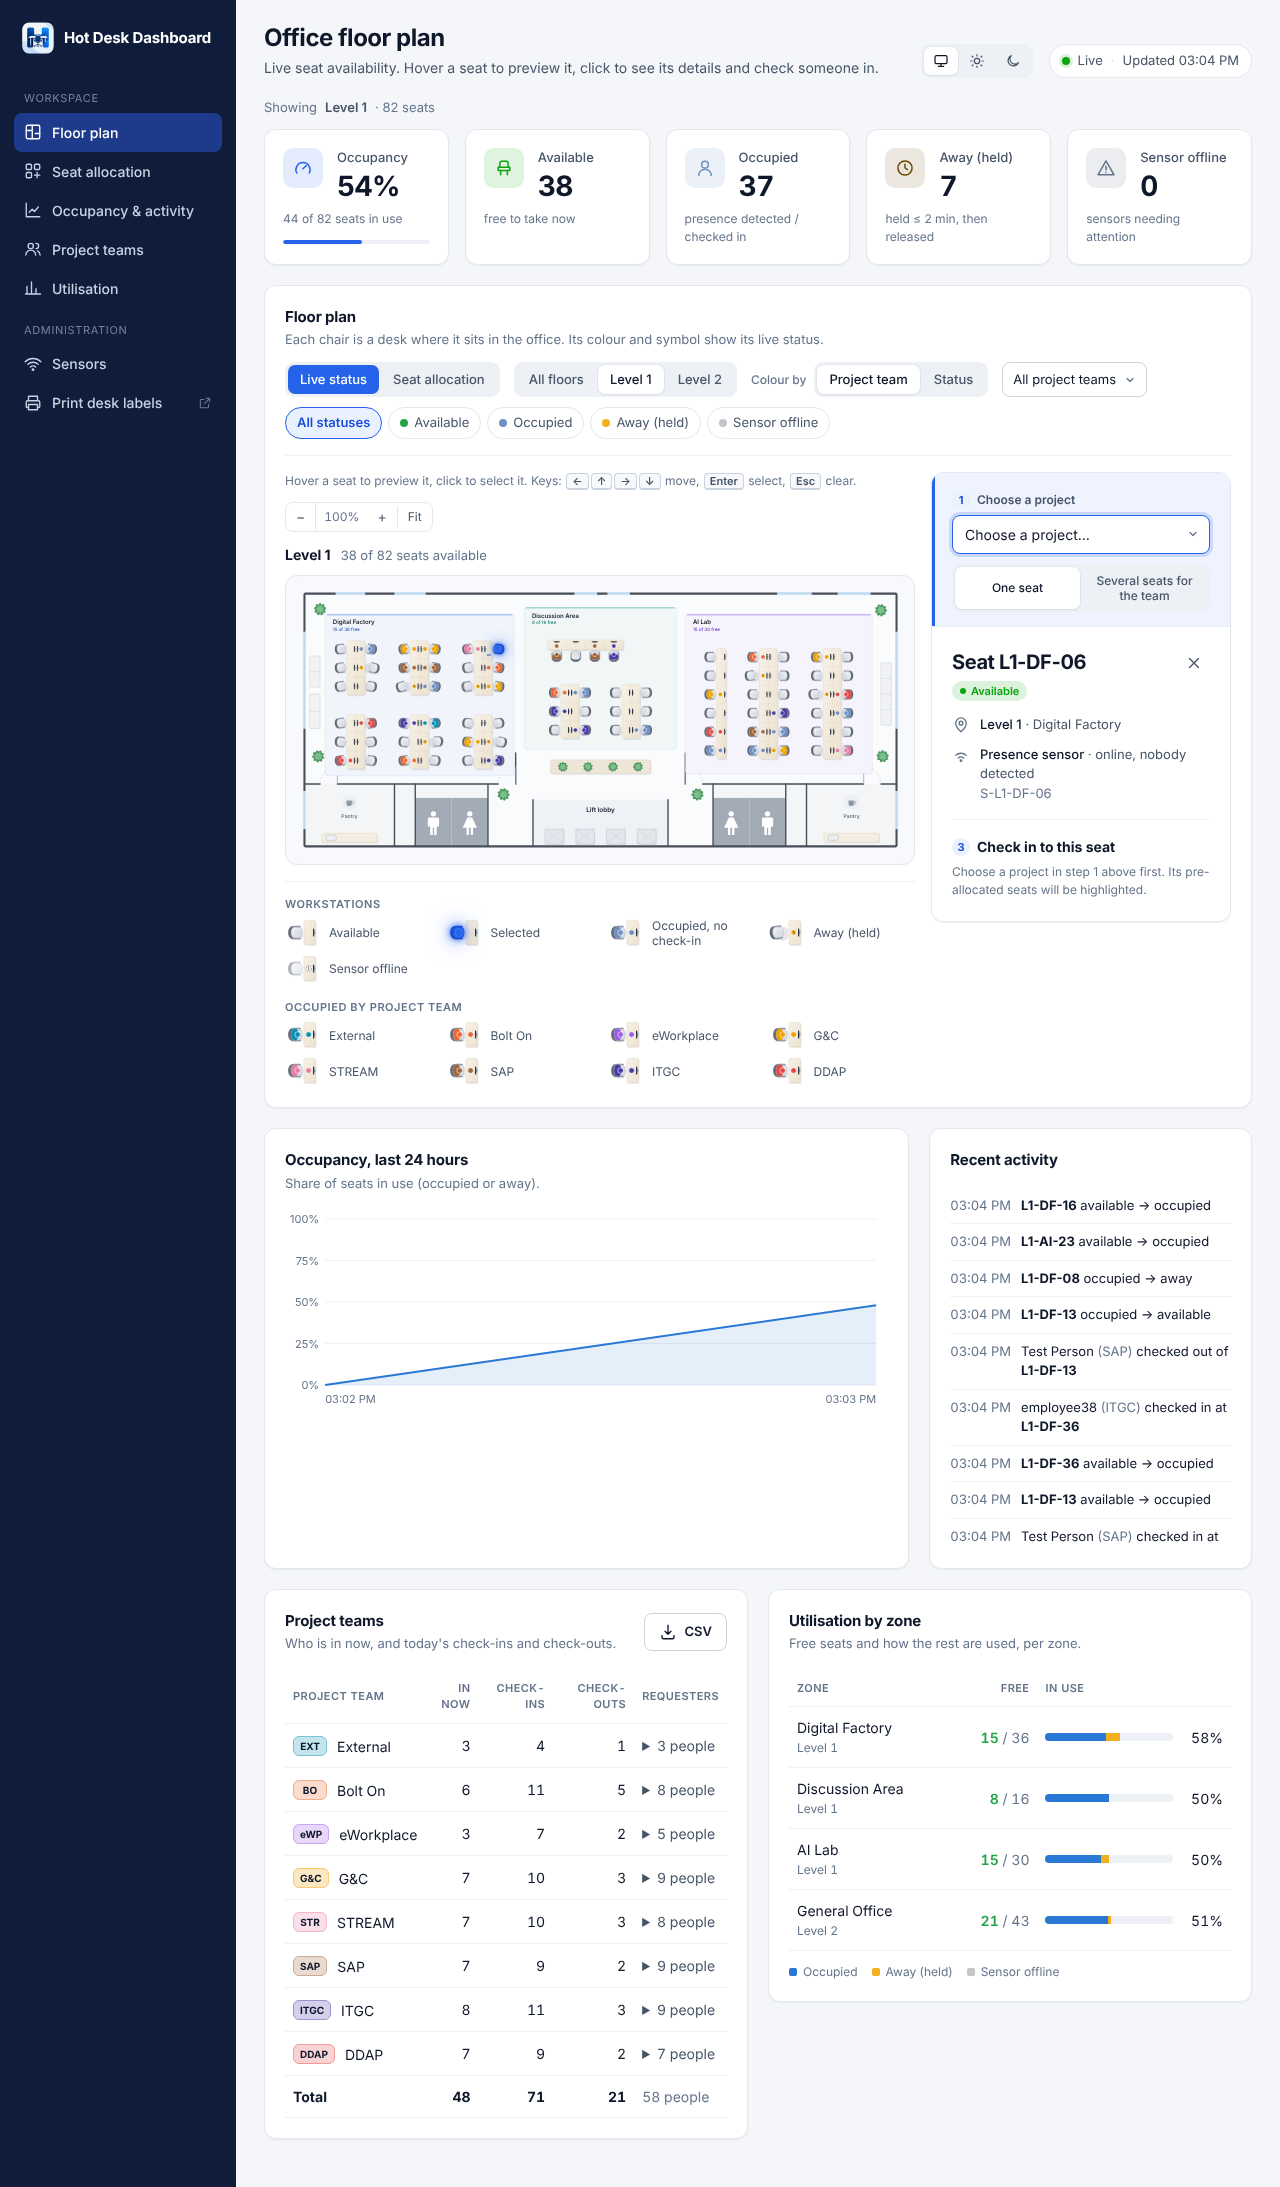
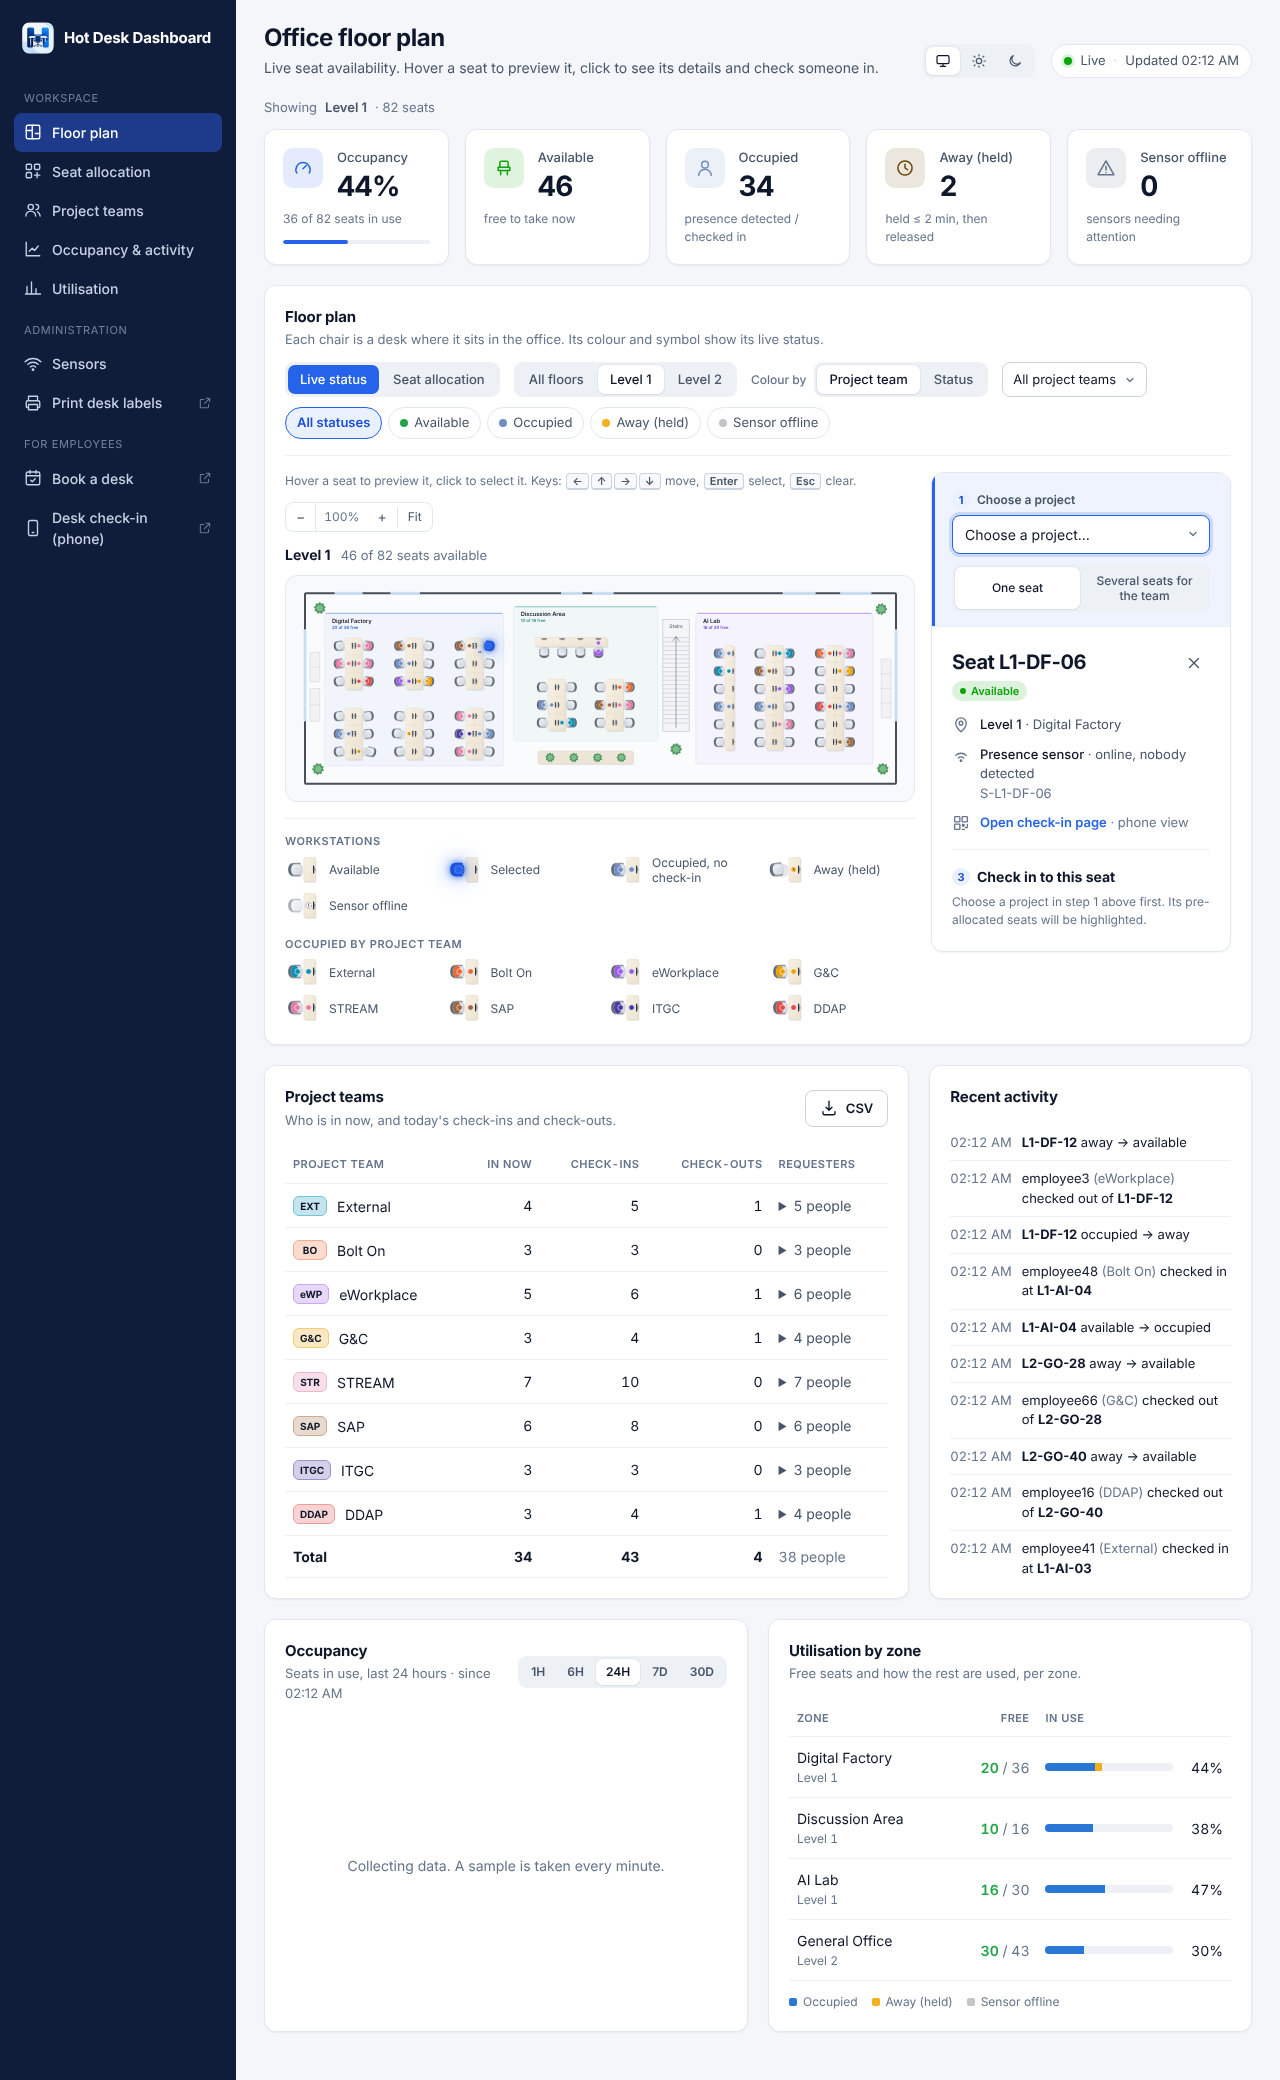
Floor plans: Level 1 without facilities plus a staircase; Level 2 drawn
Level 1: the pantries, toilets, lift lobby and their rooms, walls and
doors are removed and the empty strip below the zones is trimmed (height
73 to 58). A narrow staircase sits between the Discussion Area and the
AI Lab, which moves 0.9 m right (width 171 to 180).

Level 2 gets its own plan instead of the generic shell: a wider 122 x 66
outline with no door, men's and women's toilets in the General Office's
empty corner (the zone becomes L-shaped around them) and a staircase on
the right. Seats, seat ids and counts are unchanged on both floors.

The drawing gains a stairs room kind (treads, arrow, label) and an
optional zone cut-out for L-shaped zones.

Claude-Session: https://claude.ai/code/session_01LGhQKA2iw4MbRhcQm9t68K

diff --git a/public/floorplan.js b/public/floorplan.js
@@ -211,6 +211,8 @@ const FloorPlan = (() => {
       const box = hasPlan ? plan.zones?.[z.id] : null;
       if (box) {
         z.box = { x: box.x, y: box.y, w: Math.max(box.w, z.need.w), h: Math.max(box.h, z.need.h) };
+        // A cut-out corner (e.g. a room in an empty corner of the zone) makes the zone L-shaped.
+        if (box.cut) z.box.cut = { ...box.cut };
       } else {
         z.box = { x: cursor, y: stripY, w: z.need.w, h: z.need.h };
         cursor += z.need.w + 6;
@@ -364,6 +366,21 @@ const FloorPlan = (() => {
           ${icon('cup', cx, r1(r.y + 5.3), 0.75)}
           ${label(r.label ?? 'Pantry', r1(r.y + 9.8))}`;
       }
+      case 'stairs': {
+        // A staircase from above: treads across the flight, an arrow up it and a label on the landing.
+        const vertical = r.h >= r.w, landing = 4.2, step = 1.3;
+        const len = (vertical ? r.h : r.w) - landing, n = Math.floor(len / step);
+        const treads = Array.from({ length: n - 1 }, (_, i) => {
+          const t = r1((vertical ? r.y : r.x) + landing + step * (i + 1));
+          return vertical ? `M${r.x} ${t}H${r1(r.x + r.w)}` : `M${t} ${r.y}V${r1(r.y + r.h)}`;
+        }).join('');
+        const arrow = vertical
+          ? `M${cx} ${r1(r.y + r.h - 1.2)}V${r1(r.y + landing + 1)}m-0.9 1.2l0.9-1.2 0.9 1.2`
+          : `M${r1(r.x + r.w - 1.2)} ${cy}H${r1(r.x + landing + 1)}m1.2-0.9l-1.2 0.9 1.2 0.9`;
+        return `${base('fp-room-stairs')}<path class="fp-stair-treads" d="${treads}"/>
+          <path class="fp-stair-arrow" d="${arrow}"/>
+          <text class="fp-room-label" x="${vertical ? cx : r1(r.x + landing / 2)}" y="${vertical ? r1(r.y + 2.7) : r1(cy + 0.5)}">${esc(r.label ?? 'Stairs')}</text>`;
+      }
       case 'toilet-m': case 'toilet-f':
         return `${base('fp-room-wc')}${icon(r.kind === 'toilet-m' ? 'man' : 'woman', cx, r1(cy + 0.1), 1.25)}`;
       case 'lift': {
@@ -435,11 +452,26 @@ const FloorPlan = (() => {
   }
 
   /** The whole floor as one SVG string. Size is set by the caller (see dashboard.js). */
+  /** The zone's area: a rounded rectangle, or an L-shape when a corner is cut out. */
+  function zoneArea(b) {
+    if (!b.cut) return `<rect class="fp-zone-area" x="${b.x}" y="${b.y}" width="${b.w}" height="${b.h}" rx="0.6"/>`;
+    const x0 = b.x, y0 = b.y, x1 = r1(b.x + b.w), y1 = r1(b.y + b.h);
+    const cx0 = Math.max(x0, b.cut.x), cy0 = Math.max(y0, b.cut.y);
+    const cx1 = Math.min(x1, r1(b.cut.x + b.cut.w)), cy1 = Math.min(y1, r1(b.cut.y + b.cut.h));
+    const right = cx1 >= x1, bottom = cy1 >= y1;
+    // Walk the outline clockwise from the top-left, stepping around whichever corner is cut.
+    const pts = right && bottom ? [[x0, y0], [x1, y0], [x1, cy0], [cx0, cy0], [cx0, y1], [x0, y1]]
+      : right ? [[x0, y0], [cx0, y0], [cx0, cy1], [x1, cy1], [x1, y1], [x0, y1]]
+      : bottom ? [[x0, y0], [x1, y0], [x1, y1], [cx1, y1], [cx1, cy0], [x0, cy0]]
+      : [[cx1, y0], [x1, y0], [x1, y1], [x0, y1], [x0, cy1], [cx1, cy1]];
+    return `<path class="fp-zone-area" d="M${pts.map((p) => p.join(' ')).join('L')}Z"/>`;
+  }
+
   function floorSVG(fl) {
     // Zones are areas of the same office: a faint tint, a thin accent edge, a name and its availability.
     const zones = fl.zones.map((z, i) => `
       <g class="fp-zone fp-zone-t${i % 4}" role="group" aria-label="${esc(z.name)}" data-zone="${esc(fl.id)}|${esc(z.id)}">
-        <rect class="fp-zone-area" x="${z.box.x}" y="${z.box.y}" width="${z.box.w}" height="${z.box.h}" rx="0.6"/>
+        ${zoneArea(z.box)}
         <line class="fp-zone-bar" x1="${r1(z.box.x + 0.6)}" y1="${r1(z.box.y + 0.12)}" x2="${r1(z.box.x + z.box.w - 0.6)}" y2="${r1(z.box.y + 0.12)}"/>
         <text class="fp-zone-label" x="${r1(z.box.x + 2.2)}" y="${r1(z.box.y + 2.9)}">${esc(z.name)}</text>
         <text class="fp-zone-count" x="${r1(z.box.x + 2.2)}" y="${r1(z.box.y + 4.75)}" data-zone-count="${esc(fl.id)}|${esc(z.id)}"></text>

diff --git a/test/floorplan.test.js b/test/floorplan.test.js
@@ -62,3 +62,33 @@ test('a floor without a plan gets its zones inside a generic office shell', () =
   const svg = FloorPlan.floorSVG(fl);
   assert.equal((svg.match(/class="seat"/g) ?? []).length, zone('L2', 'GO').length);
 });
+
+test('floor plans: stairs on both floors, Level 2 toilets in a corner cut out of the office zone', () => {
+  const draw = (id) => {
+    const floor = building.floors.find((f) => f.id === id);
+    const fl = FloorPlan.layoutFloor(floor, seats, floor.plan);
+    return { floor, fl, svg: FloorPlan.floorSVG(fl) };
+  };
+  const l1 = draw('L1');
+  assert.equal((l1.svg.match(/class="seat"/g) ?? []).length, 82);
+  assert.match(l1.svg, /fp-room-stairs/);
+  assert.doesNotMatch(l1.svg, /fp-room-wc|fp-room-pantry|fp-room-lift/);
+  // The stairs sit between the Discussion Area and the AI Lab.
+  const stairs = l1.floor.plan.rooms.find((r) => r.kind === 'stairs');
+  const box = (id) => l1.fl.zones.find((z) => z.id === id).box;
+  assert.ok(stairs.x >= box('DA').x + box('DA').w && stairs.x + stairs.w <= box('AI').x);
+
+  const l2 = draw('L2');
+  assert.equal(l2.fl.plan.generic, undefined);
+  assert.equal((l2.svg.match(/class="seat"/g) ?? []).length, 43);
+  assert.equal((l2.svg.match(/fp-room-wc/g) ?? []).length, 2);
+  assert.match(l2.svg, /fp-room-stairs/);
+  assert.match(l2.svg, /<path class="fp-zone-area" d="M/); // L-shaped zone
+  // No desk or chair lies inside the cut-out where the toilets are.
+  const go = l2.fl.zones[0], cut = go.box.cut;
+  for (const p of go.layout.seats) {
+    const x = p.x + go.ox, y = p.y + go.oy;
+    const inside = x + FloorPlan.CHAIR > cut.x && x < cut.x + cut.w && y + FloorPlan.CHAIR > cut.y && y < cut.y + cut.h;
+    assert.ok(!inside, `${p.id} outside the toilets`);
+  }
+});

diff --git a/public/app.css b/public/app.css
@@ -237,6 +237,9 @@ svg.fp { display: block; margin: 0 auto; }
 .fp-room { fill: var(--fp-room); }
 .fp-room-pantry { fill: var(--fp-room); }
 .fp-room-wc { fill: var(--fp-wc); }
+.fp-room-stairs { fill: var(--fp-room); stroke: var(--fp-wall-soft); stroke-width: 0.12; }
+.fp-stair-treads { fill: none; stroke: var(--fp-wall-soft); stroke-width: 0.1; }
+.fp-stair-arrow { fill: none; stroke: var(--fp-label); stroke-width: 0.18; stroke-linecap: round; stroke-linejoin: round; }
 .fp-room-lift { fill: var(--fp-lift); }
 .fp-room-label { font: 500 1.5px var(--font); fill: var(--fp-label); text-anchor: middle; }
 .fp-room-label-lg { font-size: 1.85px; font-weight: 600; fill: var(--fp-label-strong); }
@@ -257,7 +260,7 @@ svg.fp { display: block; margin: 0 auto; }
 .fp-leaf-2 { fill: var(--fp-leaf-2); }
 .fp-zone { --z: #2563eb; }
 .fp-zone-t1 { --z: #0d9488; } .fp-zone-t2 { --z: #7c3aed; } .fp-zone-t3 { --z: #d97706; }
-.fp-zone-area { fill: color-mix(in srgb, var(--z) 4%, var(--fp-floor)); stroke: color-mix(in srgb, var(--z) 22%, transparent); stroke-width: 0.1; }
+.fp-zone-area { stroke-linejoin: round; fill: color-mix(in srgb, var(--z) 4%, var(--fp-floor)); stroke: color-mix(in srgb, var(--z) 22%, transparent); stroke-width: 0.1; }
 .fp-zone-bar { stroke: color-mix(in srgb, var(--z) 55%, transparent); stroke-width: 0.24; stroke-linecap: round; }
 .fp-zone-label { font: 600 1.75px var(--font); fill: var(--fp-label-strong); letter-spacing: -0.01px; }
 .fp-zone-count { font: 500 1.3px var(--font); fill: color-mix(in srgb, var(--z) 80%, var(--fp-label-strong)); }

diff --git a/README.md b/README.md
@@ -156,15 +156,18 @@ To draw walls and facilities, give the floor a `"plan"`. All numbers are plan un
 ```
 
 - `zones` places each zone's area. Its tables are centred inside, and the box grows if the desks need more room.
+  An optional `"cut": { "x", "y", "w", "h" }` removes a corner of the box, making the zone L-shaped (Level 2 uses it
+  for the toilets in the office's empty corner).
 - `walls` and `windows` are lines `[x1, y1, x2, y2]`. The outer wall is drawn from `width` and `height`.
 - `doors` are hinged at `x,y` with leaf length `r`, swinging from angle `from` to `to` (degrees,
   0 = right, 90 = down).
-- Room kinds are `pantry`, `toilet-m`, `toilet-f`, `lift`, `store` and `service`. Fixture kinds are
+- Room kinds are `pantry`, `toilet-m`, `toilet-f`, `lift`, `stairs`, `store` and `service`. Fixture kinds are
   `planter` and `storage`.
 
-Level 1's plan is traced from the Digital Factory floor-plan drawing. A floor without a `plan` (Level 2 for
-now) still shows its zones and tables, inside a generic office outline with windows, plants and storage. The
-dashboard labels that outline as generic.
+Level 1 has its three zones with a narrow staircase between the Discussion Area and the AI Lab. Level 2 has the
+General Office, with toilets in its empty corner and a staircase on the right. A floor without a `plan` still
+shows its zones and tables, inside a generic office outline with windows, plants and storage; the dashboard
+labels that outline as generic.
 
 The plan is served by `GET /api/floorplan`. After updating the app, restart the server so it serves the new
 drawing data (in a Codespace: `bash scripts/codespace.sh start`). If it can't, the dashboard shows a warning
